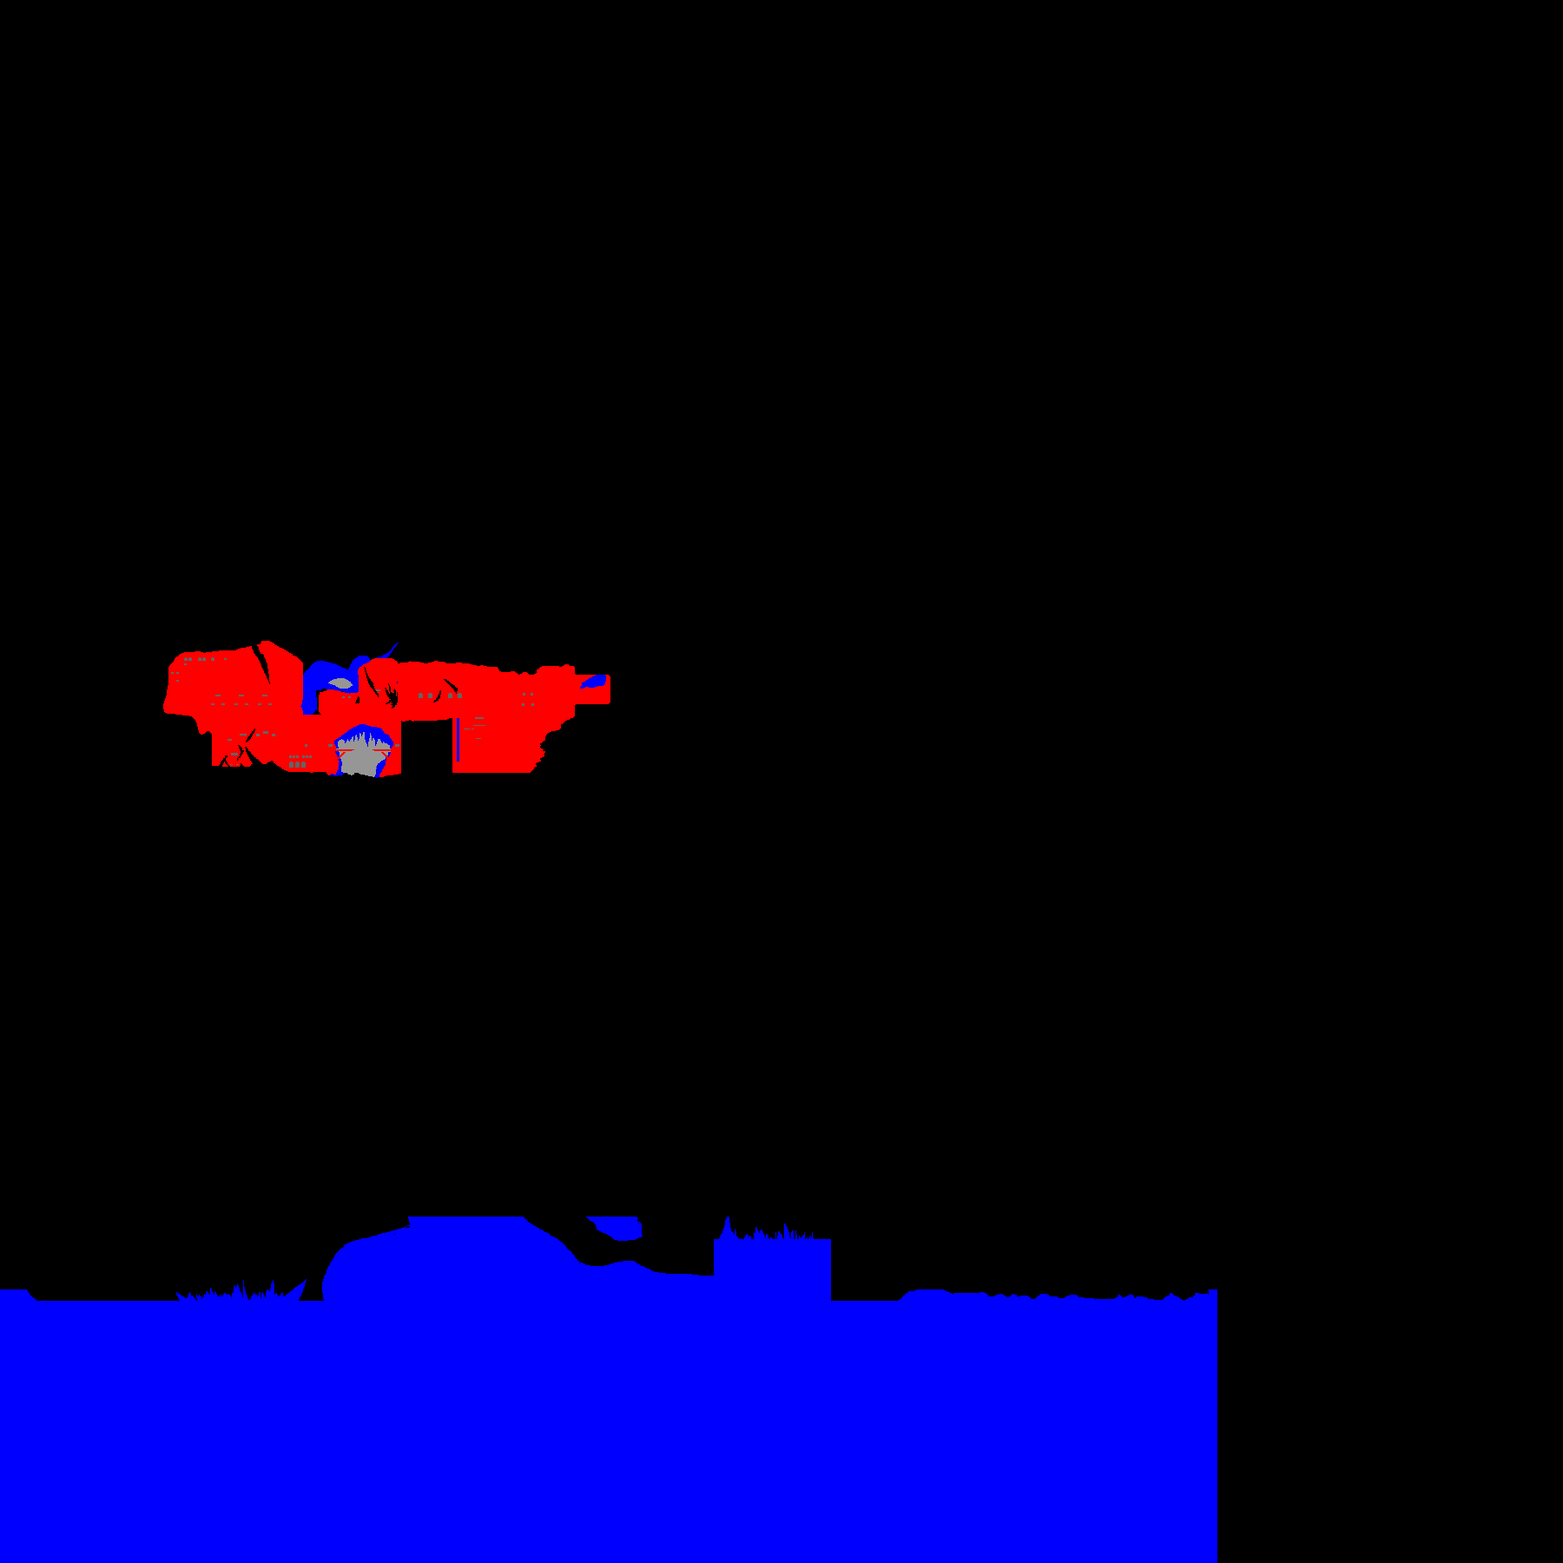
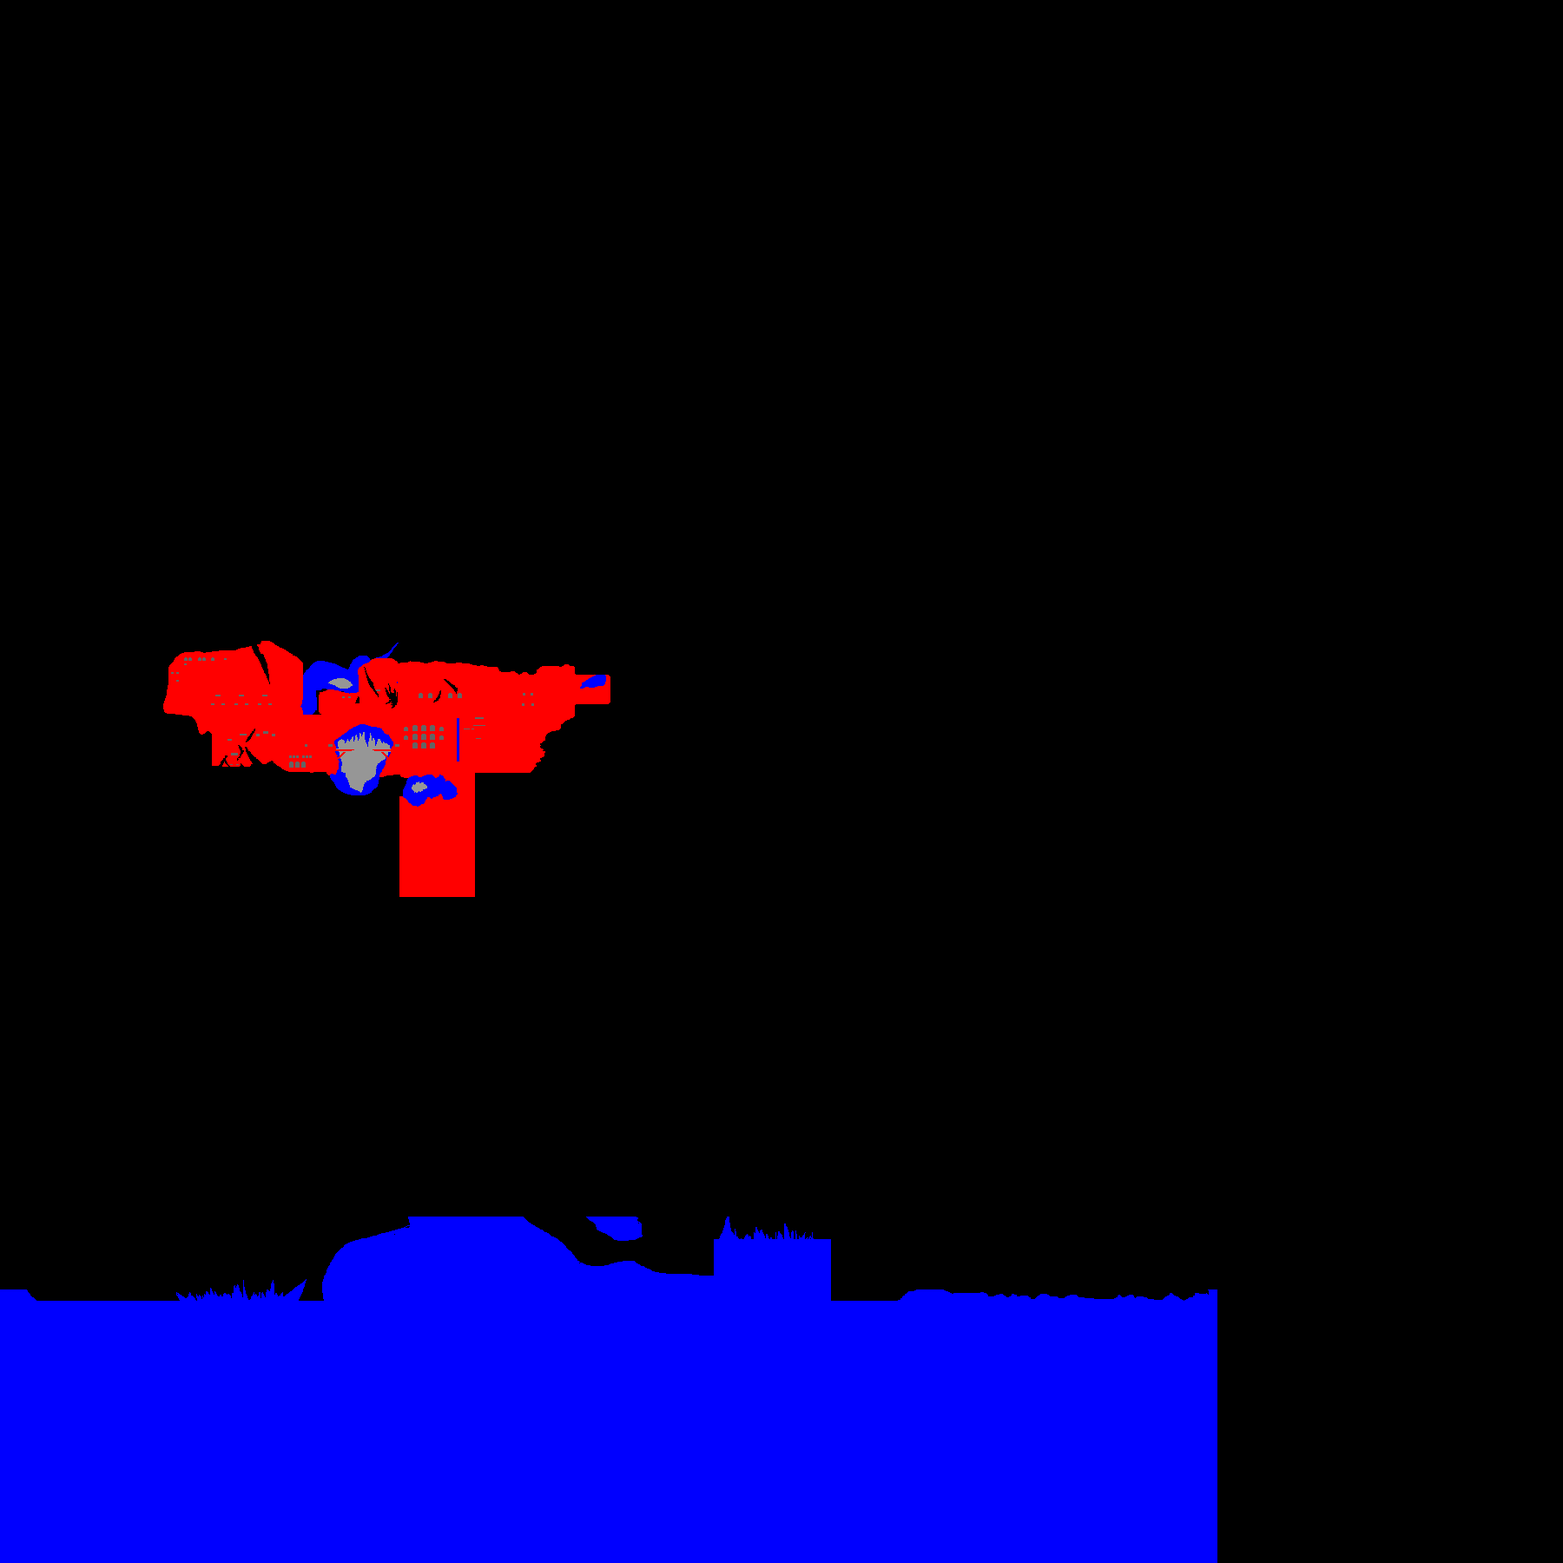
HOW WAS THE FALL

Changed region(s): [[0.2178, 0.4356, 0.3111, 0.5911]]

diff --git a/NPCs/Soulless/ShadestoneLift.cs b/NPCs/Soulless/ShadestoneLift.cs
@@ -40,16 +40,16 @@ namespace Redemption.NPCs.Soulless
             if (colliders == null || colliders.Length != 4)
             {
                 colliders = new CollisionSurface[] {
-                    new CollisionSurface(NPC.TopLeft, NPC.TopRight, new int[] { 1, 1, 1, 1 }, true),
-                    new CollisionSurface(NPC.TopLeft, NPC.BottomLeft, new int[] { 1, 1, 1, 1 }, true),
-                    new CollisionSurface(NPC.TopRight, NPC.BottomRight, new int[] { 1, 1, 1, 1 }, true),
-                    new CollisionSurface(NPC.BottomLeft, NPC.BottomRight, new int[] { 1, 1, 1, 1 }, true) };
+                    new CollisionSurface(NPC.TopLeft, NPC.TopRight, new int[] { 1, 1, 1, 1 }),
+                    new CollisionSurface(NPC.TopLeft, NPC.BottomLeft, new int[] { 1, 1, 1, 1 }),
+                    new CollisionSurface(NPC.TopRight, NPC.BottomRight, new int[] { 1, 1, 1, 1 }),
+                    new CollisionSurface(NPC.BottomLeft, NPC.BottomRight, new int[] { 1, 1, 1, 1 }) };
             }
             return true;
         }
-        private float buttonY = 14;
-        private float velY;
-        private int buttonPressed;
+        public float buttonY = 14;
+        public float velY;
+        public int buttonPressed;
         public override void AI()
         {
             Rectangle buttonRect = new((int)NPC.position.X + 32, (int)NPC.position.Y - 14, 32, 18);
@@ -195,5 +195,125 @@ namespace Redemption.NPCs.Soulless
     public class ShadestoneLift2 : ShadestoneLift
     {
         public override string Texture => "Redemption/NPCs/Soulless/ShadestoneLift";
+    }
+    public class ShadestoneLift3 : ShadestoneLift
+    {
+        public override string Texture => "Redemption/NPCs/Soulless/ShadestoneLift";
+        public override bool PreAI()
+        {
+            if (colliders == null || colliders.Length != 4)
+            {
+                colliders = new CollisionSurface[] {
+                    new CollisionSurface(NPC.TopLeft, NPC.TopRight, new int[] { 1, 1, 1, 1 }),
+                    new CollisionSurface(NPC.TopLeft, NPC.BottomLeft, new int[] { 1, 1, 1, 1 }),
+                    new CollisionSurface(NPC.TopRight, NPC.BottomRight, new int[] { 1, 1, 1, 1 }),
+                    new CollisionSurface(NPC.BottomLeft, NPC.BottomRight, new int[] { 1, 1, 1, 1 }) };
+            }
+            return true;
+        }
+        public override void AI()
+        {
+            Rectangle buttonRect = new((int)NPC.position.X + 32, (int)NPC.position.Y - 14, 32, 18);
+            for (int i = 0; i < Main.maxPlayers; i++)
+            {
+                Player player = Main.player[i];
+                if (!player.active || player.dead || buttonPressed != 0 || buttonY < 14)
+                    continue;
+
+                if (!player.Hitbox.Intersects(buttonRect))
+                    continue;
+
+                if (!Main.dedServ)
+                    SoundEngine.PlaySound(SoundLoader.GetLegacySoundSlot(Mod, "Sounds/Custom/Switch1").WithVolume(0.5f), NPC.position);
+                buttonPressed = 1;
+            }
+            switch (buttonPressed)
+            {
+                case 0:
+                    buttonY += 0.2f;
+                    NPC.ai[0] = 0;
+                    NPC.ai[1] = 0;
+                    break;
+                case 1:
+                    buttonY -= 0.2f;
+                    if (NPC.ai[0]++ == 50)
+                    {
+                        if (!Main.dedServ)
+                            SoundEngine.PlaySound(SoundLoader.GetLegacySoundSlot(Mod, "Sounds/Custom/Slam1").WithVolume(0.5f), NPC.position);
+                        Main.player[Main.myPlayer].RedemptionScreen().ScreenShakeIntensity = 8 - (Main.player[Main.myPlayer].Distance(NPC.Center) / 64);
+                    }
+                    if (NPC.ai[0] >= 50)
+                    {
+                        velY += 0.01f;
+                        NPC.velocity.Y += velY / 10;
+                        if (NPC.ai[0] == 380)
+                        {
+                            SoundEngine.PlaySound(SoundID.Item14, NPC.position);
+                            if (Main.netMode != NetmodeID.Server)
+                            {
+                                for (int g = 0; g < 6; g++)
+                                {
+                                    int goreIndex = Gore.NewGore(NPC.GetSource_FromThis(), RedeHelper.RandAreaInEntity(NPC), default, Main.rand.Next(61, 64));
+                                    Main.gore[goreIndex].velocity *= 0.1f;
+                                }
+                            }
+                            Main.player[Main.myPlayer].RedemptionScreen().ScreenShakeIntensity = 6 - (Main.player[Main.myPlayer].Distance(NPC.Center) / 64);
+                        }
+                        if (NPC.ai[0] >= 380)
+                        {
+                            NPC.velocity.Y += 0.1f;
+                            NPC.rotation += 0.004f;
+                        }
+                        if (NPC.position.Y >= NPC.ai[2] * 16)
+                        {
+                            SoullessArea.soullessBools[2] = true;
+                            if (Main.netMode == NetmodeID.Server)
+                                NetMessage.SendData(MessageID.WorldData);
+
+                            if (!Main.dedServ)
+                                SoundEngine.PlaySound(SoundLoader.GetLegacySoundSlot(Mod, "Sounds/Custom/Slam2").WithVolume(0.5f), NPC.position);
+                            Main.player[Main.myPlayer].RedemptionScreen().ScreenShakeIntensity = 14 - (Main.player[Main.myPlayer].Distance(NPC.Center) / 64);
+                            if (Main.netMode != NetmodeID.Server)
+                            {
+                                for (int g = 0; g < 6; g++)
+                                {
+                                    int goreIndex = Gore.NewGore(NPC.GetSource_FromThis(), RedeHelper.RandAreaInEntity(NPC), default, Main.rand.Next(61, 64));
+                                    Main.gore[goreIndex].velocity *= 2f;
+                                }
+                            }
+                            NPC.active = false;
+                        }
+                    }
+                    break;
+            }
+            buttonY = MathHelper.Clamp(buttonY, 11, 14);
+            velY = MathHelper.Clamp(velY, -0.03f, 0.03f);
+            if (colliders != null && colliders.Length == 4)
+            {
+                colliders[0].Update();
+                colliders[0].endPoints[0] = NPC.Center + (NPC.TopLeft - NPC.Center).RotatedBy(NPC.rotation);
+                colliders[0].endPoints[1] = NPC.Center + (NPC.TopRight - NPC.Center).RotatedBy(NPC.rotation);
+
+                colliders[1].Update();
+                colliders[1].endPoints[0] = NPC.Center + (NPC.TopLeft - NPC.Center).RotatedBy(NPC.rotation);
+                colliders[1].endPoints[1] = NPC.Center + (NPC.BottomLeft - NPC.Center).RotatedBy(NPC.rotation);
+
+                colliders[2].Update();
+                colliders[2].endPoints[0] = NPC.Center + (NPC.TopRight - NPC.Center).RotatedBy(NPC.rotation);
+                colliders[2].endPoints[1] = NPC.Center + (NPC.BottomRight - NPC.Center).RotatedBy(NPC.rotation);
+
+                colliders[3].Update();
+                colliders[3].endPoints[0] = NPC.Center + (NPC.BottomLeft - NPC.Center).RotatedBy(NPC.rotation);
+                colliders[3].endPoints[1] = NPC.Center + (NPC.BottomRight - NPC.Center).RotatedBy(NPC.rotation);
+            }
+        }
+        public override void PostAI()
+        {
+            if (colliders != null)
+            {
+                foreach (CollisionSurface collider in colliders)
+                    collider.PostUpdate();
+            }
+        }
     }
 }

diff --git a/Globals/Areas/SoullessArea.cs b/Globals/Areas/SoullessArea.cs
@@ -1,8 +1,12 @@
 using Microsoft.Xna.Framework;
+using Redemption.BaseExtension;
 using Redemption.NPCs.Soulless;
+using Redemption.Tiles.Tiles;
+using SubworldLibrary;
 using System.Collections.Generic;
 using System.IO;
 using Terraria;
+using Terraria.Audio;
 using Terraria.DataStructures;
 using Terraria.ID;
 using Terraria.ModLoader;
@@ -13,8 +17,8 @@ namespace Redemption.Globals
     public class SoullessArea : ModSystem
     {
         public static bool Active;
-        public static bool[] soullessBools = new bool[1];
-        public static int[] soullessInts = new int[1];
+        public static bool[] soullessBools = new bool[3];
+        public static int[] soullessInts = new int[3];
         public override void PreUpdateEntities()
         {
             Active = false;
@@ -24,12 +28,41 @@ namespace Redemption.Globals
             if (!Active || Main.netMode == NetmodeID.MultiplayerClient)
                 return;
 
+            for (int n = 0; n < 255; n++)
+            {
+                Terraria.Player player = Main.player[n];
+                if (!player.active || player.dead)
+                    continue;
+
+                Rectangle b1 = new(275 * 16, 832 * 16, 5 * 16, 10 * 16);
+                if (!soullessBools[1] && player.Hitbox.Intersects(b1))
+                {
+                    if (!Main.dedServ)
+                        SoundEngine.PlaySound(SoundLoader.GetLegacySoundSlot(Mod, "Sounds/Custom/EarthBoom2").WithVolume(0.5f), b1.Center.ToVector2());
+
+                    Main.player[Main.myPlayer].RedemptionScreen().ScreenShakeIntensity = 8 - (Main.player[Main.myPlayer].Distance(b1.Center.ToVector2()) / 64);
+                    for (int x = 275; x < 280; x++)
+                    {
+                        for (int y = 836; y < 841; y++)
+                        {
+                            if (Framing.GetTileSafely(x, y).TileType == ModContent.TileType<ShadestoneTile>())
+                                WorldGen.KillTile(x, y, false, false, true);
+                        }
+                    }
+                    soullessBools[1] = true;
+                    break;
+                }
+            }
+
             Vector2 LiftPos = new(608 * 16, (822 * 16) + 8);
             if (!Terraria.NPC.AnyNPCs(ModContent.NPCType<ShadestoneLift2>()))
                 Terraria.NPC.NewNPC(new EntitySource_SpawnNPC(), (int)LiftPos.X, (int)LiftPos.Y, ModContent.NPCType<ShadestoneLift2>(), 0, 0, 0, 863, 821);
             Vector2 LiftPos2 = new(334 * 16, (763 * 16) + 8);
             if (!Terraria.NPC.AnyNPCs(ModContent.NPCType<ShadestoneLift>()))
                 Terraria.NPC.NewNPC(new EntitySource_SpawnNPC(), (int)LiftPos2.X, (int)LiftPos2.Y, ModContent.NPCType<ShadestoneLift>(), 0, 0, 0, 787, 762);
+            Vector2 LiftPos3 = new(510 * 16, (863 * 16) + 8);
+            if (!soullessBools[2] && !Terraria.NPC.AnyNPCs(ModContent.NPCType<ShadestoneLift3>()))
+                Terraria.NPC.NewNPC(new EntitySource_SpawnNPC(), (int)LiftPos3.X, (int)LiftPos3.Y, ModContent.NPCType<ShadestoneLift3>(), 0, 0, 0, 1026, 862);
         }
         public override void OnWorldLoad()
         {

diff --git a/Items/Accessories/PostML/HEVSuit.cs b/Items/Accessories/PostML/HEVSuit.cs
@@ -17,9 +17,9 @@ namespace Redemption.Items.Accessories.PostML
         {
             if (Main.netMode != NetmodeID.Server)
             {
-                EquipLoader.AddEquipTexture(Mod, $"{Texture}_{EquipType.Head}", EquipType.Head, null, null, new EquipTexture());
-                EquipLoader.AddEquipTexture(Mod, $"{Texture}_{EquipType.Body}", EquipType.Body, null, null, new EquipTexture());
-                EquipLoader.AddEquipTexture(Mod, $"{Texture}_{EquipType.Legs}", EquipType.Legs, null, null, new EquipTexture());
+                EquipLoader.AddEquipTexture(Mod, $"{Texture}_{EquipType.Head}", EquipType.Head, Item.ModItem, null, new EquipTexture());
+                EquipLoader.AddEquipTexture(Mod, $"{Texture}_{EquipType.Body}", EquipType.Body, Item.ModItem, null, new EquipTexture());
+                EquipLoader.AddEquipTexture(Mod, $"{Texture}_{EquipType.Legs}", EquipType.Legs, Item.ModItem, null, new EquipTexture());
             }
         }
 

diff --git a/Items/Accessories/HM/HazmatSuit2.cs b/Items/Accessories/HM/HazmatSuit2.cs
@@ -13,9 +13,9 @@ namespace Redemption.Items.Accessories.HM
         {
             if (Main.netMode != NetmodeID.Server)
             {
-                EquipLoader.AddEquipTexture(Mod, $"{Texture}_{EquipType.Head}", EquipType.Head, null, null, new EquipTexture());
-                EquipLoader.AddEquipTexture(Mod, $"{Texture}_{EquipType.Body}", EquipType.Body, null, null, new EquipTexture());
-                EquipLoader.AddEquipTexture(Mod, $"{Texture}_{EquipType.Legs}", EquipType.Legs, null, null, new EquipTexture());
+                EquipLoader.AddEquipTexture(Mod, $"{Texture}_{EquipType.Head}", EquipType.Head, Item.ModItem, null, new EquipTexture());
+                EquipLoader.AddEquipTexture(Mod, $"{Texture}_{EquipType.Body}", EquipType.Body, Item.ModItem, null, new EquipTexture());
+                EquipLoader.AddEquipTexture(Mod, $"{Texture}_{EquipType.Legs}", EquipType.Legs, Item.ModItem, null, new EquipTexture());
             }
         }
 

diff --git a/WorldGeneration/Soulless/SoullessSub.cs b/WorldGeneration/Soulless/SoullessSub.cs
@@ -54,7 +54,7 @@ namespace Redemption.WorldGeneration.Soulless
             if (Main.netMode != NetmodeID.MultiplayerClient && SoullessArea.soullessInts[0] < 2)
             {
                 if (SoullessArea.soullessInts[0] < 1)
-                    NPC.NewNPC(new EntitySource_WorldGen(), 478 * 16, 802 * 16, ModContent.NPCType<TwinfaceSoulless>());
+                    NPC.NewNPC(new EntitySource_WorldGen(), 496 * 16, 802 * 16, ModContent.NPCType<TwinfaceSoulless>());
                 else
                     NPC.NewNPC(new EntitySource_WorldGen(), 534 * 16, 802 * 16, ModContent.NPCType<TwinfaceSoulless>(), 0, 1, 0, Main.rand.Next(80, 280));
             }
@@ -382,6 +382,7 @@ namespace Redemption.WorldGeneration.Soulless
             SpookChest(370, 871);
             SpookChest(559, 834);
             SpookChest(658, 799);
+            SpookChest(462, 841);
 
             for (int i = 0; i < 1800; i++)
             {

diff --git a/Items/Accessories/HM/HazmatSuit.cs b/Items/Accessories/HM/HazmatSuit.cs
@@ -13,9 +13,9 @@ namespace Redemption.Items.Accessories.HM
 		{
 			if (Main.netMode != NetmodeID.Server)
 			{
-				EquipLoader.AddEquipTexture(Mod, $"{Texture}_{EquipType.Head}", EquipType.Head, null, null, new EquipTexture());
-				EquipLoader.AddEquipTexture(Mod, $"{Texture}_{EquipType.Body}", EquipType.Body, null, null, new EquipTexture());
-				EquipLoader.AddEquipTexture(Mod, $"{Texture}_{EquipType.Legs}", EquipType.Legs, null, null, new EquipTexture());
+				EquipLoader.AddEquipTexture(Mod, $"{Texture}_{EquipType.Head}", EquipType.Head, Item.ModItem, null, new EquipTexture());
+				EquipLoader.AddEquipTexture(Mod, $"{Texture}_{EquipType.Body}", EquipType.Body, Item.ModItem, null, new EquipTexture());
+				EquipLoader.AddEquipTexture(Mod, $"{Texture}_{EquipType.Legs}", EquipType.Legs, Item.ModItem, null, new EquipTexture());
 			}
 		}
 

diff --git a/Items/Accessories/HM/HazmatSuit3.cs b/Items/Accessories/HM/HazmatSuit3.cs
@@ -13,9 +13,9 @@ namespace Redemption.Items.Accessories.HM
 		{
 			if (Main.netMode != NetmodeID.Server)
 			{
-				EquipLoader.AddEquipTexture(Mod, $"{Texture}_{EquipType.Head}", EquipType.Head, null, null, new EquipTexture());
-				EquipLoader.AddEquipTexture(Mod, $"{Texture}_{EquipType.Body}", EquipType.Body, null, null, new EquipTexture());
-				EquipLoader.AddEquipTexture(Mod, $"{Texture}_{EquipType.Legs}", EquipType.Legs, null, null, new EquipTexture());
+				EquipLoader.AddEquipTexture(Mod, $"{Texture}_{EquipType.Head}", EquipType.Head, Item.ModItem, null, new EquipTexture());
+				EquipLoader.AddEquipTexture(Mod, $"{Texture}_{EquipType.Body}", EquipType.Body, Item.ModItem, null, new EquipTexture());
+				EquipLoader.AddEquipTexture(Mod, $"{Texture}_{EquipType.Legs}", EquipType.Legs, Item.ModItem, null, new EquipTexture());
 			}
 		}
 

diff --git a/NPCs/Soulless/RuhRoh.cs b/NPCs/Soulless/RuhRoh.cs
@@ -40,7 +40,7 @@ namespace Redemption.NPCs.Soulless
             if (colliders == null || colliders.Length != 1)
             {
                 colliders = new CollisionSurface[] {
-                    new CollisionSurface(NPC.TopLeft, NPC.BottomLeft, new int[] { 1, 1, 1, 1 }, true) };
+                    new CollisionSurface(NPC.TopLeft, NPC.BottomLeft, new int[] { 1, 1, 1, 1 }) };
             }
             return true;
         }
@@ -70,6 +70,8 @@ namespace Redemption.NPCs.Soulless
                     }
                     break;
                 case 1:
+                    Flare = true;
+                    FlareTimer = MathHelper.Min(30, FlareTimer);
                     NPC.velocity.X -= 0.01f;
                     NPC.velocity.X = MathHelper.Clamp(NPC.velocity.X, -10, 0);
                     break;

diff --git a/Items/Weapons/SoADevelopment.cs b/Items/Weapons/SoADevelopment.cs
@@ -1,0 +1,25 @@
+using Terraria;
+using Terraria.ID;
+using Terraria.ModLoader;
+
+namespace Redemption.Items.Weapons
+{
+    public class SoADevelopment : ModItem
+    {
+        public override void SetDefaults()
+        {
+            Item.damage = 100000;
+            Item.DamageType = DamageClass.Melee;
+            Item.width = 34;
+            Item.height = 24;
+            Item.useTime = 600;
+            Item.useAnimation = 600;
+            Item.useStyle = ItemUseStyleID.Swing;
+            Item.knockBack = 50f;
+            Item.crit = 94;
+            Item.UseSound = SoundID.Item1;
+            Item.autoReuse = false;
+            Item.useTurn = false;
+        }
+    }
+}

diff --git a/Biomes/SoullessBiome.cs b/Biomes/SoullessBiome.cs
@@ -2,7 +2,9 @@ using Microsoft.Xna.Framework;
 using Microsoft.Xna.Framework.Graphics;
 using Redemption.BaseExtension;
 using Redemption.Globals;
+using Redemption.WorldGeneration.Soulless;
 using ReLogic.Content;
+using SubworldLibrary;
 using Terraria;
 using Terraria.ModLoader;
 
@@ -43,7 +45,7 @@ namespace Redemption.Biomes
 
         public override bool IsBiomeActive(Player player)
         {
-            return ModContent.GetInstance<RedeTileCount>().SoullessTileCount >= 200;
+            return ModContent.GetInstance<RedeTileCount>().SoullessTileCount >= 200 && SubworldSystem.IsActive<SoullessSub>();
         }
     }
 }

diff --git a/NPCs/Soulless/SoullessWanderer.cs b/NPCs/Soulless/SoullessWanderer.cs
@@ -129,7 +129,6 @@ namespace Redemption.NPCs.Soulless
                 NPCPhysChain.ModifyChainPhysics(NPC, Tendril1, ref chains.bodyPhysChainPositions[1], NPCChainHelper.GetNPCDrawAnchor(chains.npcPhysChainOffset[1], NPC), new Vector2(0, 0));
                 NPCPhysChain.ModifyChainPhysics(NPC, Tendril1, ref chains.bodyPhysChainPositions[2], NPCChainHelper.GetNPCDrawAnchor(chains.npcPhysChainOffset[2], NPC), new Vector2(-9, 16f));
             }
-
             Player player = Main.player[NPC.target];
             RedeNPC globalNPC = NPC.Redemption();
             NPC.TargetClosest();

diff --git a/NPCs/Soulless/SoullessBase.cs b/NPCs/Soulless/SoullessBase.cs
@@ -52,7 +52,11 @@ namespace Redemption.NPCs.Soulless
                 }
             });
         }
-
+        public override bool PreAI()
+        {
+            NPC.noTileCollide = false;
+            return true;
+        }
         public bool AttackerIsSoulless()
         {
             RedeNPC globalNPC = NPC.Redemption();
